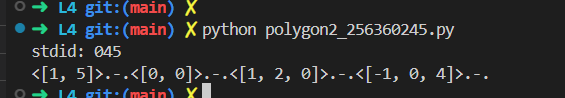
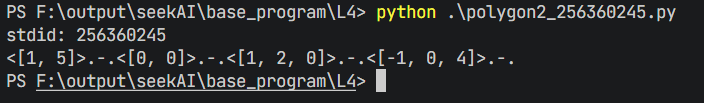
update: basic program

Changed region(s): [[0.0, 0.0, 0.9628, 0.398], [0.0, 0.6735, 0.8726, 1.0], [0.0, 0.4286, 0.7522, 0.6429]]

diff --git a/base_program/L4/polygon.py b/base_program/L4/polygon.py
@@ -1,100 +1,142 @@
-from abc import abstractmethod
+# -*- coding: utf-8 -*-
+# @file    : polygon.py
+# @brief   : 多边形类
+# @author  : xyrlix (xyrlix@outlook.com)
+# @date    : 2025-11-17 11:07:07
+# @copyright: Copyright (c) 2025 Seek Dao
+
+
+from abc import ABC, abstractmethod
 import math
+import numpy as np
+
 
 class Point:
     """class Point - Stores a point (x, y) in 2D space"""
-    def __init__(self, x, y:int):
+
+    def __init__(self, x, y: int):
         self.point = [x, y]
+
     def __str__(self):
         return f"<{self.point}>"
+
     def gen(self):
         for c in self.point:
             yield c
+
     def __iter__(self):
         return self.gen()
+
 
 class Point3D(Point):
     """class Point3D - Stores a point (x, y, z) in 3D space"""
-    def __init__(self, x, y, z):
-        self.point = [x, y, z]
-    def __str__(self):
-        return f"<{self.point}>"
-    def gen(self):
-        for c in self.point:
-            yield c
-    def __iter__(self):
-        return self.gen()
 
-class Polygon:
+    def __init__(self, x, y, z):
+        super().__init__(x, y)
+        self.point.append(z)
+
+
+class Polygon():
     """Polygon base class - 接受定点坐标的点列表"""
+
     def __init__(self, points):
         self.points = points
+
     def __str__(self):
-        return f"<{self.points}>"
+        return "Polygon: " + " -> ".join([str(pt) for pt in self.points])
+
     def __len__(self):
         return len(self.points)
+
     def gen(self):
         for c in self.points:
             yield c
+
     def __iter__(self):
         return self.gen()
+
+    def _area_triangle(self, vec1: np.ndarray, vec2: np.ndarray) -> float:
+        """内部方法：通过两个向量计算三角形面积"""
+        cross_product = np.cross(vec1, vec2)
+        return 0.5 * np.linalg.norm(cross_product)
+
     def sides_length(self):
-        if len(self.points) <= 1:
-            return 0
-        if len(self.points) == 2:
-            # 只有两个点
-            pts1 = self.points[0]
-            pts2 = self.points[1]
-        else:
-            # 多于两个点, 需要构造最后一条边
-            pts1 = self.points
-            pts2 = self.points[0:2]
-        # 多边形边长 这两个列表中获取的同一位置的点定义
-        # 并调用 math.dist() 函数计算总数至 total_length
-        total_length = math.dist(pts1, pts2)
-        return total_length
+        """计算多边形边长"""
+        n = len(self.points)
+        if n <= 1:
+            return 0.0
+
+        total_length = 0.0
+        pts1 = self.points
+        # 构造pts2：最后一个点连接回第一个点
+        pts2 = self.points[1:] + [self.points[0]]
+
+        # 遍历成对的点，计算距离并累加
+        for p1, p2 in zip(pts1, pts2):
+            # 确保两点维度一致（2D/3D）
+            if len(p1.point) != len(p2.point):
+                raise ValueError("Points must have the same dimension")
+            total_length += math.dist(p1.point, p2.point)
+        return round(total_length, 2)
+
     @abstractmethod
     def area(self):
         raise NotImplementedError("area() must be implemented")
 
 class Triangle(Polygon):
-    """class Triangle - Stores a triangle in 3D space"""
-    def __init__(self, points):
-        super().__init__(points)
-        self.edges = self.edges()
-        self.area = self.area()
-    def __str__(self):
-        return f"<{self.points}>"
-    def gen(self):
-        for c in self.points:
-            yield c
-    def __iter__(self):
-        return self.gen()
+    """class Triangle - 三角形"""
 
-    def edges(self):
-        return [self.points[0], self.points[1], self.points[2]]
-    
+    def __init__(self, points: list[Point]):
+        if len(points) != 3:
+            raise ValueError("A triangle must have exactly 3 vertices")
+        super().__init__(points)
+
+    def __str__(self):
+        return "Triangle: " + " -> ".join([str(pt) for pt in self.points])
+
     def area(self):
-        '''三角形计算面积'''
-        return 0.5 * abs(self.points[0].x * (self.points[1].y - self.points[2].y) + self.points[1].x * (self.points[2].y - self.points[0].y) + self.points[2].x * (self.points[0].y - self.points[1].y))
+        """求三角形计算面积"""
+        # 提取三点坐标并转换为向量
+        p1 = np.array(self.points[0].point)
+        p2 = np.array(self.points[1].point)
+        p3 = np.array(self.points[2].point)
+
+        # 计算向量
+        vec1 = p2 - p1
+        vec2 = p3 - p1
+
+        # 计算面积
+        return round(self._area_triangle(vec1, vec2), 2)
+
 
 class Quadrilateral(Polygon):
-    """class Quadrilateral - Stores a quadrilateral in 3D space"""
-    def __init__(self, points):
-        super().__init__(points)
-        self.edges = self.edges()
-        self.area = self.area()
-    def __str__(self):
-        return f"<{self.points}>"
-    def gen(self):
-        for c in self.points:
-            yield c
-    def __iter__(self):
-        return self.gen()
+    """class Quadrilateral - 四边形"""
 
-    def edges(self):
-        return [self.points[0], self.points[1], self.points[2], self.points[3]]
-    
+    def __init__(self, points):
+        if len(points) != 4:
+            raise ValueError("A quadrilateral must have exactly 4 vertices")
+        super().__init__(points)
+
+    def __str__(self):
+        return "Quadrilateral: " + " -> ".join([str(pt) for pt in self.points])
+
     def area(self):
         '''四边形计算面积'''
-        return abs(self.points[0].x * (self.points[1].y - self.points[2].y) + self.points[1].x * (self.points[2].y - self.points[0].y) + self.points[2].x * (self.points[0].y - self.points[1].y)) / 2
+        # 提取四点坐标并转换为向量
+        p1 = np.array(self.points[0].point)
+        p2 = np.array(self.points[1].point)
+        p3 = np.array(self.points[2].point)
+        p4 = np.array(self.points[3].point)
+
+        # 计算第一个三角形面积
+        vec1 = p2 - p1
+        vec2 = p4 - p1
+        area1 = self._area_triangle(vec1, vec2)
+
+        # 计算第二个三角形面积
+        vec1 = p3 - p2
+        vec2 = p4 - p2
+        area2 = self._area_triangle(vec1, vec2)
+
+        # 计算面积
+        return abs(area1 + area2)

diff --git a/base_program/L4/polygon4_256360245.py b/base_program/L4/polygon4_256360245.py
@@ -1,0 +1,58 @@
+# -*- coding: utf-8 -*-
+# @file    : polygon4_256360245.py
+# @brief   : 多边形类测试
+# @author  : xyrlix (xyrlix@outlook.com)
+# @date    : 2025-11-17 11:07:07
+# @copyright: Copyright (c) 2025 Seek Dao
+
+
+import matplotlib.pyplot as plt
+import numpy as np
+from polygon import Point3D, Triangle, Quadrilateral
+
+if __name__ == "__main__":
+    stdid = '256360245'
+    a = int(stdid[-1])
+    b = int(stdid[-2])
+    c = int(stdid[-3])
+    pt1 = Point3D(0, 0, 0)
+    pt2 = Point3D(0, 1, a)
+    pt3 = Point3D(-5, 2, b)
+    pt4 = Point3D(-3, 0, c)
+    
+    print(f"stdid: {stdid}")
+    tri1 = Triangle([pt2, pt3, pt4])
+    print("---"*20)
+    print(tri1)
+    print(f"sides_length: {tri1.sides_length()}")
+    print(f"Area: {tri1.area()}")
+    
+    quad1 = Quadrilateral([pt1, pt2, pt3, pt4])
+    print("---"*20)
+    print(quad1)
+    print(f"sides_length: {quad1.sides_length()}")
+    print(f"Area: {quad1.area()}")
+    
+    # 可选：3D绘图展示
+    plt.style.use('_mpl-gallery')
+    fig, (ax1, ax2) = plt.subplots(1, 2, figsize=(20, 10), subplot_kw={"projection": "3d"})
+
+    # 三角形绘图
+    tri_xs = np.array([p.point[0] for p in tri1.points] + [tri1.points[0].point[0]])
+    tri_ys = np.array([p.point[1] for p in tri1.points] + [tri1.points[0].point[1]])
+    tri_zs = np.array([p.point[2] for p in tri1.points] + [tri1.points[0].point[2]])
+    ax1.plot(tri_xs, tri_ys, tri_zs, 'r-', markersize=8)
+    ax1.scatter(tri_xs[:-1], tri_ys[:-1], tri_zs[:-1], c='blue', s=50)
+    ax1.set_title('Triangle Visualization', fontsize=14, pad=20)
+
+    # 四边形绘图
+    quad_xs = np.array([p.point[0] for p in quad1.points] + [quad1.points[0].point[0]])
+    quad_ys = np.array([p.point[1] for p in quad1.points] + [quad1.points[0].point[1]])
+    quad_zs = np.array([p.point[2] for p in quad1.points] + [quad1.points[0].point[2]])
+    ax2.plot(quad_xs, quad_ys, quad_zs, 'g-', markersize=8)
+    ax2.scatter(quad_xs[:-1], quad_ys[:-1], quad_zs[:-1], c='red', s=50)
+    ax2.set_title('Quadrilateral Visualization', fontsize=14, pad=20)
+
+    plt.subplots_adjust(top=0.9)
+    plt.tight_layout()
+    plt.show()

diff --git a/base_program/L4/polygon3_256360245.py b/base_program/L4/polygon3_256360245.py
@@ -1,12 +1,20 @@
+# -*- coding: utf-8 -*-
+# @file    : polygon3_256360245.py
+# @brief   : 多边形类测试
+# @author  : xyrlix (xyrlix@outlook.com)
+# @date    : 2025-11-17 14:36:05
+# @copyright: Copyright (c) 2025 Seek Dao
+
+
 import matplotlib.pyplot as plt
 import numpy as np
 from polygon import Point3D, Polygon
 
 if __name__ == "__main__":
-    stdid = '045'
-    a = int(stdid[2])
-    b = int(stdid[1])
-    c = int(stdid[0])
+    stdid = '256360245'
+    a = int(stdid[-1])
+    b = int(stdid[-2])
+    c = int(stdid[-3])
     pt1 = Point3D(0, 0, 0)
     pt2 = Point3D(0, 1, a)
     pt3 = Point3D(-5, 2, b)
@@ -14,14 +22,23 @@ if __name__ == "__main__":
     poly1 = Polygon([pt1, pt2, pt3, pt4])
     print(f"stdid: {stdid}")
     print(poly1)
+    print(f"sides_length: {poly1.sides_length()}")
 
-    #Plot
+    # Plot
     plt.style.use('_mpl-gallery')
     xs = np.array([pts.point[0] for pts in poly1.points])
     ys = np.array([pts.point[1] for pts in poly1.points])
     zs = np.array([pts.point[2] for pts in poly1.points])
-    fig = plt.figure(figsize=(20, 15))
-    ax = fig.add_subplot(projection='3d')
-    ax.scatter(xs, ys, zs)
-    ax.plot(xs, ys, zs)
+
+    fig, ax = plt.subplots(figsize=(10, 10), subplot_kw={"projection": "3d"})
+    ax.plot(xs, ys, zs, 'b-', linewidth=2, markersize=8)
+    ax.scatter(xs[:-1], ys[:-1], zs[:-1], c='red', s=50)
+
+    ax.set_xlabel('X')
+    ax.set_ylabel('Y')
+    ax.set_zlabel('Z')
+    # 设置标题，调整字体大小和位置
+    ax.set_title(f'Polygon test: {stdid}', fontsize=14, pad=20)
+    plt.subplots_adjust(top=0.9)
+    plt.tight_layout()
     plt.show()

diff --git a/base_program/L4/polygon1_256360245.py b/base_program/L4/polygon1_256360245.py
@@ -1,9 +1,21 @@
+# -*- coding: utf-8 -*-
+# @file    : polygon1_256360245.py
+# @brief   : 点类测试
+# @author  : xyrlix (xyrlix@outlook.com)
+# @date    : 2025-11-17 11:07:07
+# @copyright: Copyright (c) 2025 Seek Dao
+
+
 from polygon import Point
 
+# 测试 Point 类
 if __name__ == "__main__":
     print(Point.__doc__)
-    pt1 = Point(1, 5)
+    stdid = '256360245'
+    a = int(stdid[-1])
+    pt1 = Point(1, a)
     pt2 = Point(0, 0)
+    print(type(iter(pt1)))
     print(f"{pt1}-{pt2}")
     for element in pt1:
         print(f"<{element}>")

diff --git a/base_program/L4/polygon2_256360245.py b/base_program/L4/polygon2_256360245.py
@@ -1,10 +1,19 @@
+# -*- coding: utf-8 -*-
+# @file    : polygon2_256360245.py
+# @brief   : 点类测试
+# @author  : xyrlix (xyrlix@outlook.com)
+# @date    : 2025-11-17 11:07:07
+# @copyright: Copyright (c) 2025 Seek Dao
+
+
 from polygon import Point3D, Point
 
+# 测试 Point3D 类
 if __name__ == "__main__":
-    stdid = '045'
+    stdid = '256360245'
     print(f"stdid: {stdid}")
-    a = int(stdid[2])
-    b = int(stdid[1])
+    a = int(stdid[-1])
+    b = int(stdid[-2])
     pt1 = Point(1, a)
     pt2 = Point(0, 0)
     pt3 = Point3D(1, 2, 0)
